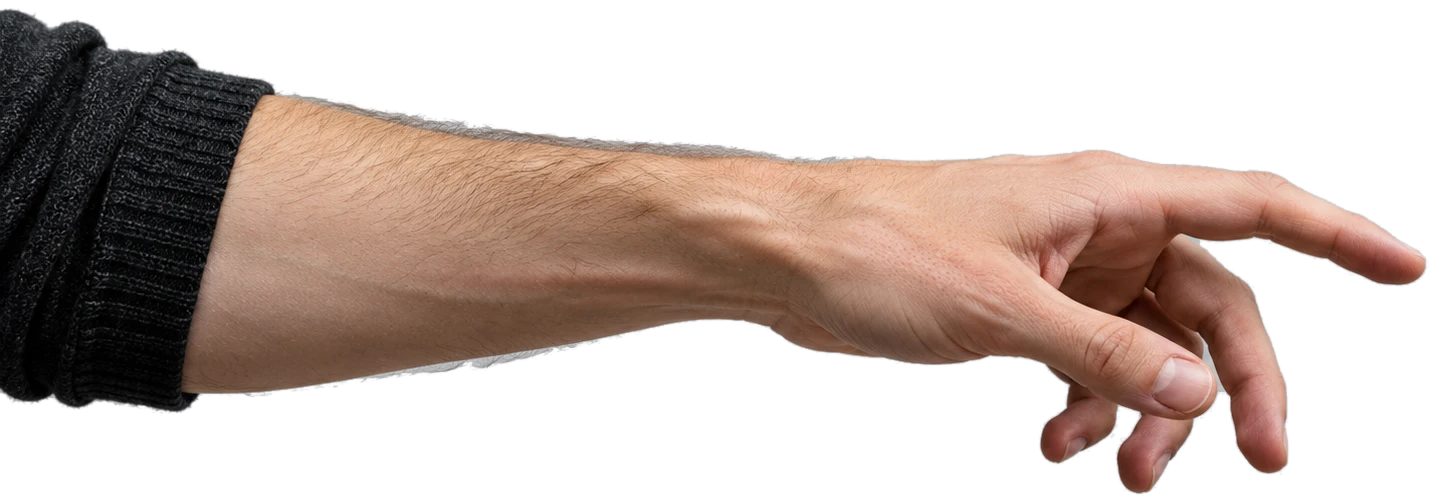
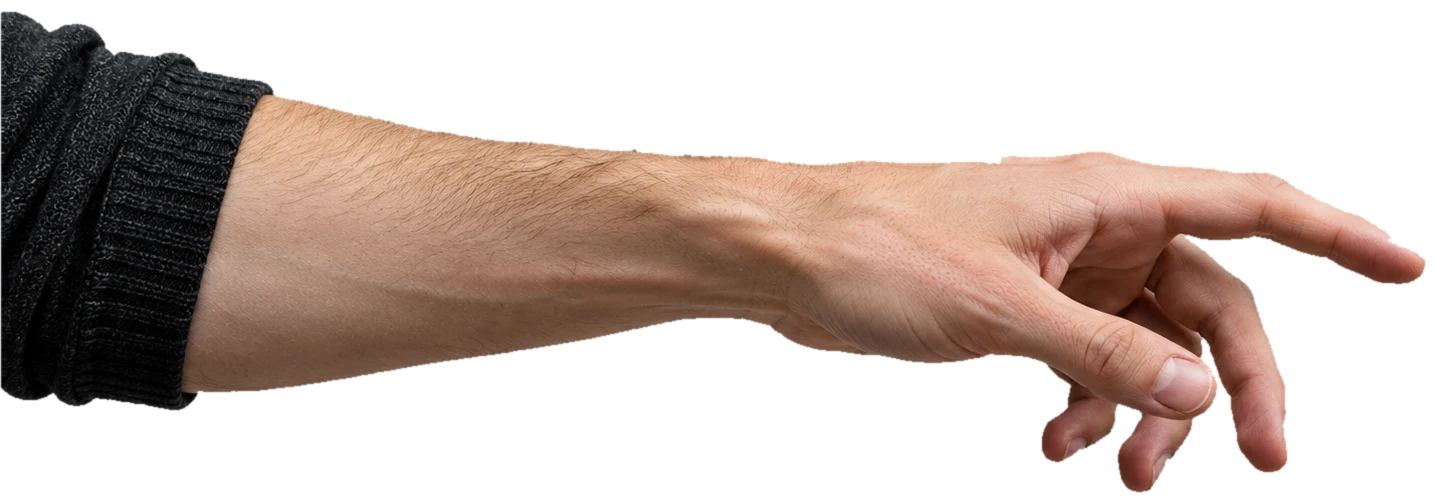
Menschliche Hand sauber freigestellt: grauer Saum am Arm und Hintergrund zwischen den Fingern entfernt

diff --git a/index.html b/index.html
@@ -96,7 +96,7 @@
 
     <div class="hero-stage">
       <figure class="hand hand-human">
-        <img src="assets/hand-human.png?v=da20349b" alt="" width="1437" height="503">
+        <img src="assets/hand-human.png?v=346aa499" alt="" width="1437" height="503">
       </figure>
       <canvas class="hero-globe" id="hero-globe" aria-hidden="true"></canvas>
       <figure class="hand hand-ai">
